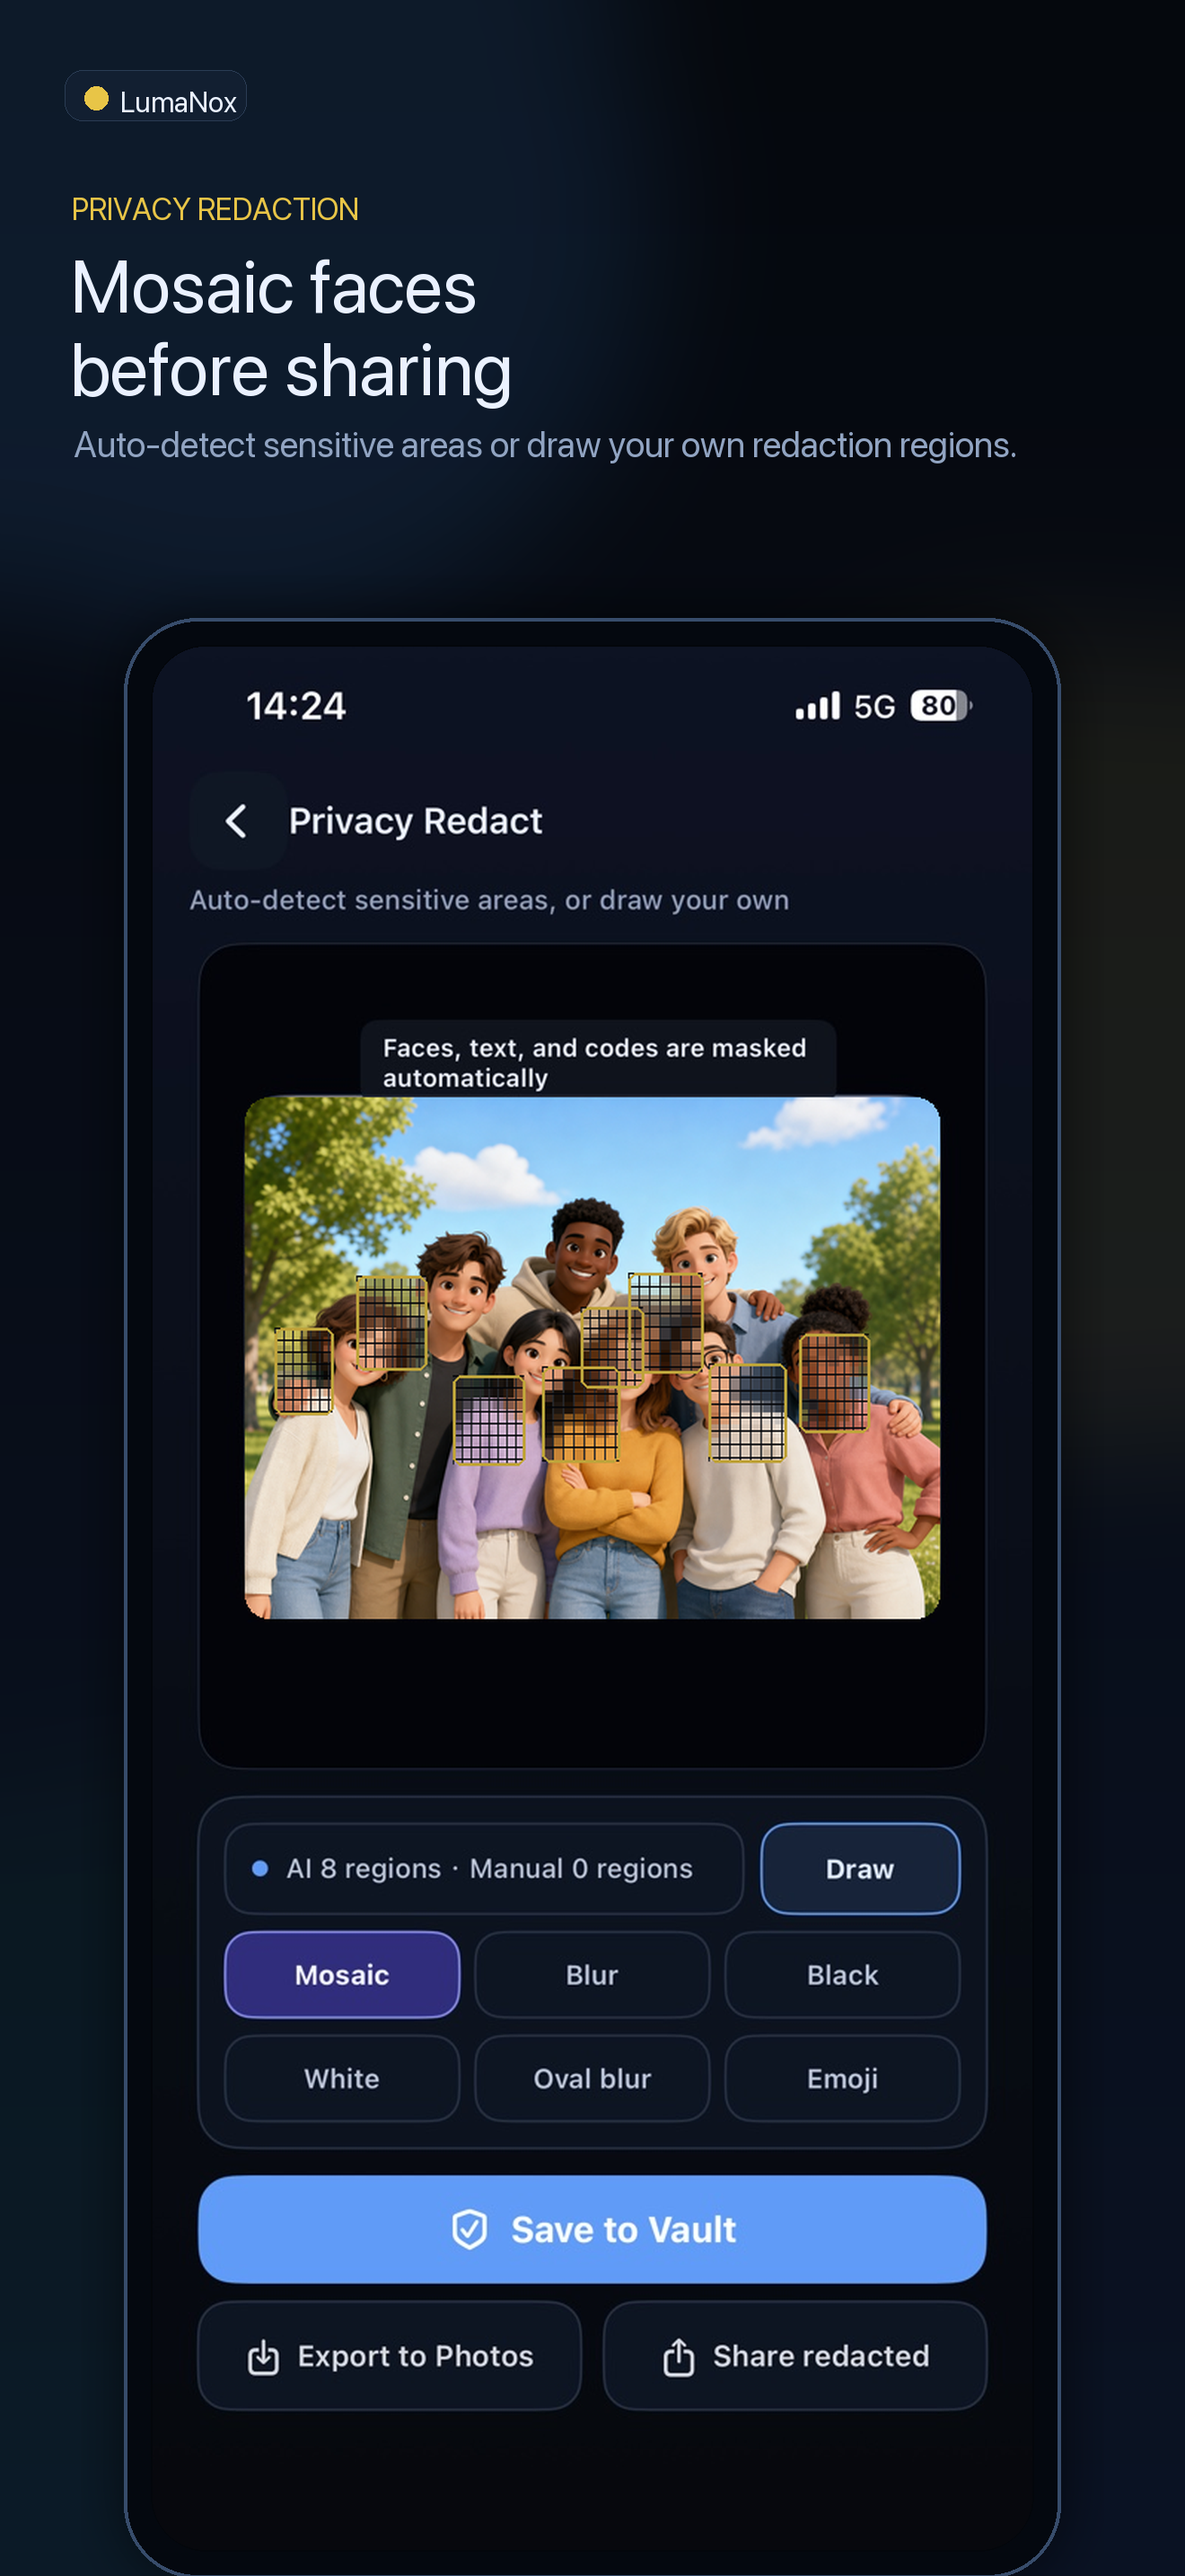
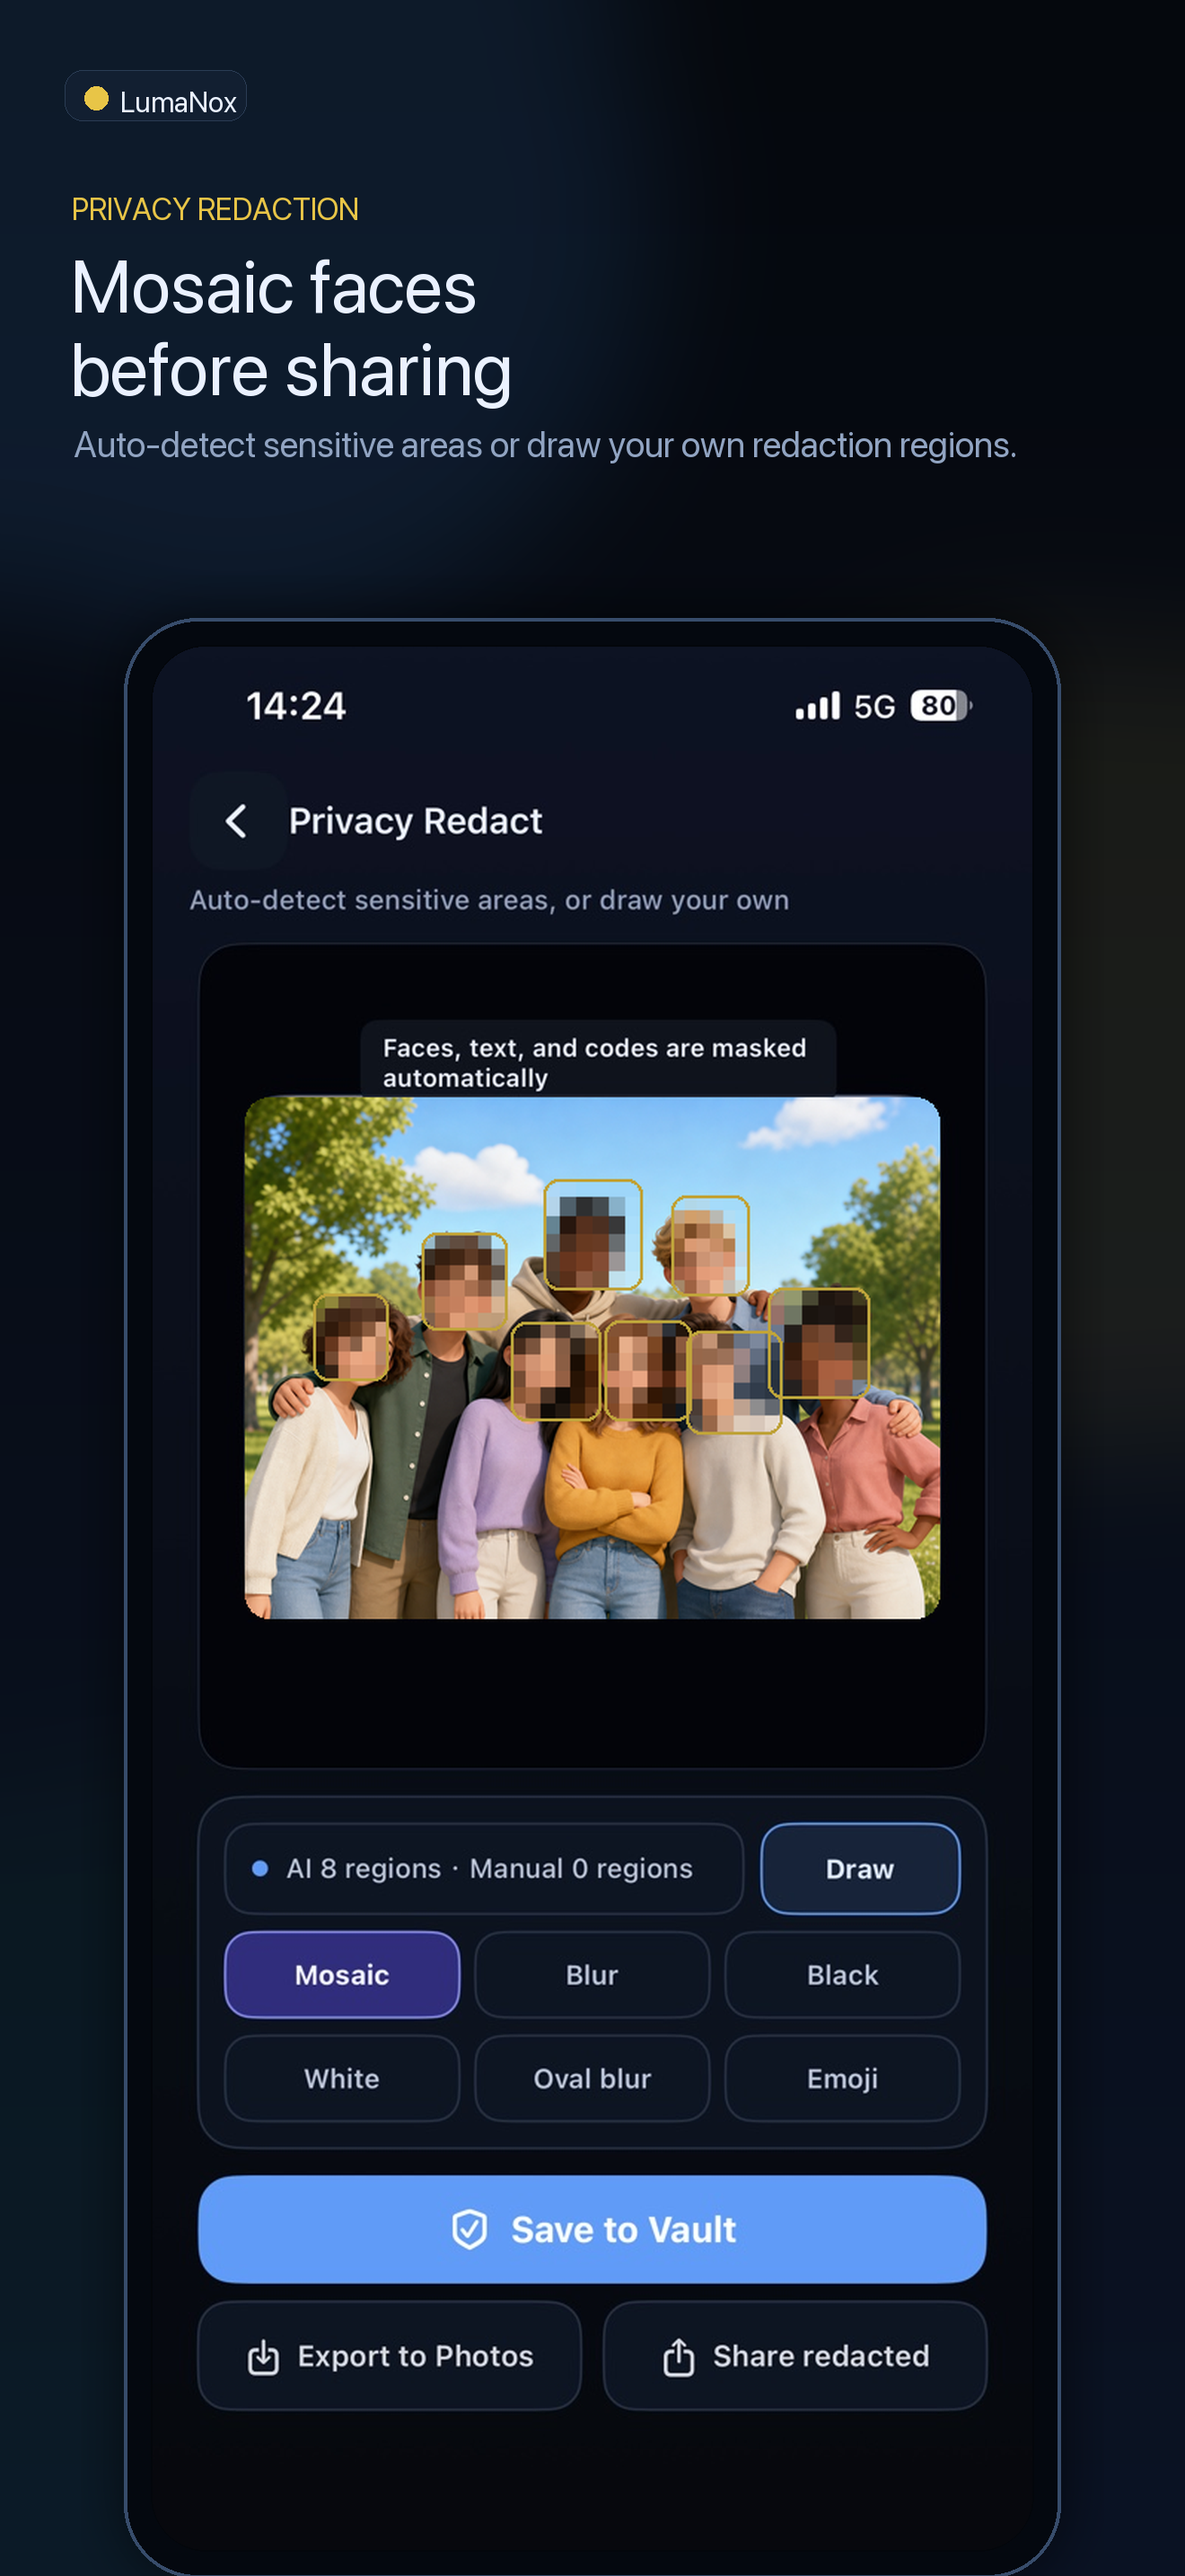
Improve privacy redaction screenshot mosaic

Changed region(s): [[0.2174, 0.4655, 0.7455, 0.5896]]

diff --git a/marketing/app-store/generate_iphone_6_9_screenshots_apple_reg_111.py b/marketing/app-store/generate_iphone_6_9_screenshots_apple_reg_111.py
@@ -141,18 +141,15 @@ def thumbnail_tiles() -> list[Image.Image]:
     return [sheet.crop(box) for box in boxes]
 
 
-def apply_mosaic(img: Image.Image, box: tuple[int, int, int, int], blocks: int = 8) -> None:
+def apply_mosaic(img: Image.Image, box: tuple[int, int, int, int], blocks: int = 7) -> None:
     x0, y0, x1, y1 = box
     region = img.crop(box).convert("RGBA")
-    small_w = max(3, blocks)
-    small_h = max(3, int(blocks * region.height / max(region.width, 1)))
-    mosaic = region.resize((small_w, small_h), Image.Resampling.BILINEAR).resize(region.size, Image.Resampling.NEAREST)
-    md = ImageDraw.Draw(mosaic)
-    for x in range(0, mosaic.width, max(6, mosaic.width // 7)):
-        md.line((x, 0, x, mosaic.height), fill=(255, 255, 255, 36), width=1)
-    for y in range(0, mosaic.height, max(6, mosaic.height // 7)):
-        md.line((0, y, mosaic.width, y), fill=(0, 0, 0, 34), width=1)
-    img.paste(mosaic, (x0, y0))
+    small_w = max(4, blocks)
+    small_h = max(4, int(blocks * region.height / max(region.width, 1)))
+    mosaic = region.resize((small_w, small_h), Image.Resampling.BOX).resize(region.size, Image.Resampling.NEAREST)
+    mosaic = mosaic.filter(ImageFilter.GaussianBlur(0.35))
+    mask = rounded_mask(region.size, max(8, min(region.size) // 4)).filter(ImageFilter.GaussianBlur(1.0))
+    img.paste(mosaic, (x0, y0), mask)
 
 
 def sanitize_capture(path: Path) -> Image.Image:
@@ -187,20 +184,20 @@ def sanitize_capture(path: Path) -> Image.Image:
         group = Image.open(GROUP_PHOTO).convert("RGBA")
         paste_rounded(img, fit_cover(group, (photo_box[2] - photo_box[0], photo_box[3] - photo_box[1])), photo_box, 16)
         face_boxes = [
-            (82, 458, 121, 516),
-            (137, 423, 184, 486),
-            (202, 490, 250, 550),
-            (262, 484, 314, 548),
-            (320, 421, 370, 488),
-            (374, 482, 426, 548),
-            (435, 462, 482, 528),
-            (288, 444, 330, 498),
+            (108, 435, 158, 493),
+            (181, 394, 238, 459),
+            (263, 358, 329, 432),
+            (349, 369, 401, 436),
+            (241, 454, 301, 520),
+            (304, 453, 362, 520),
+            (359, 460, 423, 529),
+            (414, 431, 482, 505),
         ]
         for box in face_boxes:
-            apply_mosaic(img, box, 7)
+            apply_mosaic(img, box, 6)
         d = ImageDraw.Draw(img)
         for box in face_boxes:
-            d.rounded_rectangle(box, radius=6, outline=(232, 197, 71, 210), width=2)
+            d.rounded_rectangle(box, radius=10, outline=(232, 197, 71, 210), width=2)
     return img
 
 
